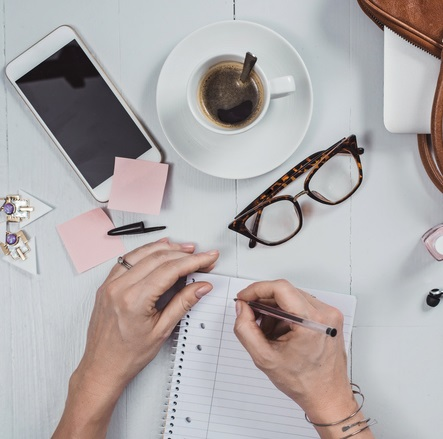
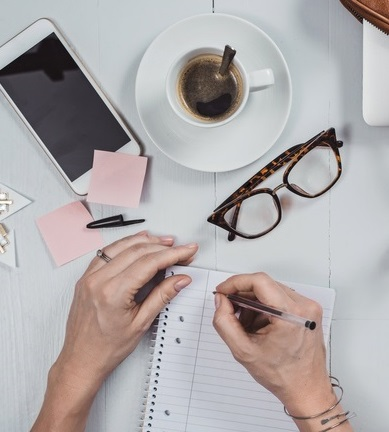
Home page

diff --git a/stack-task-ui/src/user/login/Login.css b/stack-task-ui/src/user/login/Login.css
@@ -21,32 +21,31 @@
 .social-login {
     display: inline-flex;
     max-width: 300px;
-    font-size: 25px;
-    font-weight: 400;
-    color: rgba(0,0,0,0.70);
+    min-width: 280px;
     position: absolute;
     top: 30%;
     left: 50%;
     transform: translate(-40%, -50%);
+    box-shadow: 0 1px 11px rgba(0, 0, 0, 0.9) inset;
+    background: gainsboro;
+}
+
+a:link{
+    font-size: 1.2em;
+    font-weight: bold;
+    padding-left: 10px;
+    padding-right: 10px;
 }
 
 .social-btn {
     border: 3px solid white;
     margin: 15px;
-
 }
 
 .social-btn img {
     height: 32px;
     float: left;
-    margin-top: 7px;
-    margin-right: 4px;
-    padding-bottom: 3px;
-    margin-bottom: 10px;
-}
-
-.social-btn.google {
-
+    margin-right: 0px;
 }
 
 .social-btn.facebook img {
@@ -64,13 +63,3 @@
     font-size: 14px;
 }
 
-.login-title {
-    font-size: 2em;
-    font-weight: bold;
-    color: black;
-}
-
-.centered {
-
-max-width: 300px;
-}

diff --git a/stack-task-ui/src/user/login/Login.js b/stack-task-ui/src/user/login/Login.js
@@ -53,9 +53,12 @@ class SocialLogin extends Component {
     render() {
         return (
             <div className="social-login">
-                <a className="btn btn-block social-btn google" href={config
+                <a className="btn btn-block social-btn"
+                href={config
                 .GOOGLE_AUTH_URL}>
-                    <img src={googleLogo} alt="Google" /> Log in with Google</a>
+                <img src={googleLogo} alt="Google"
+                style={{marginTop: "5px"}}/>Log in with
+                Google</a>
                 {/*<a className="btn btn-block social-btn facebook"
                 href={FACEBOOK_AUTH_URL}>
                     <img src={fbLogo} alt="Facebook" /> Log in with Facebook</a>

diff --git a/stack-task-ui/src/home/Home.js b/stack-task-ui/src/home/Home.js
@@ -17,8 +17,8 @@ class Home extends Component {
                     <p id="f3" class="centered"></p>
                 </div>}
         return <div class="fadein">
-            <img id="f2" src="/stackHome1L.jpg" />
-            <img id="f1" src="/stackHome2L.jpg"/>
+            <img id="f2" src="/stackHome1M.jpg" />
+            <img id="f1" src="/stackHome2M.jpg"/>
             <p id="f3" class="centered"></p>
         </div>
     }
